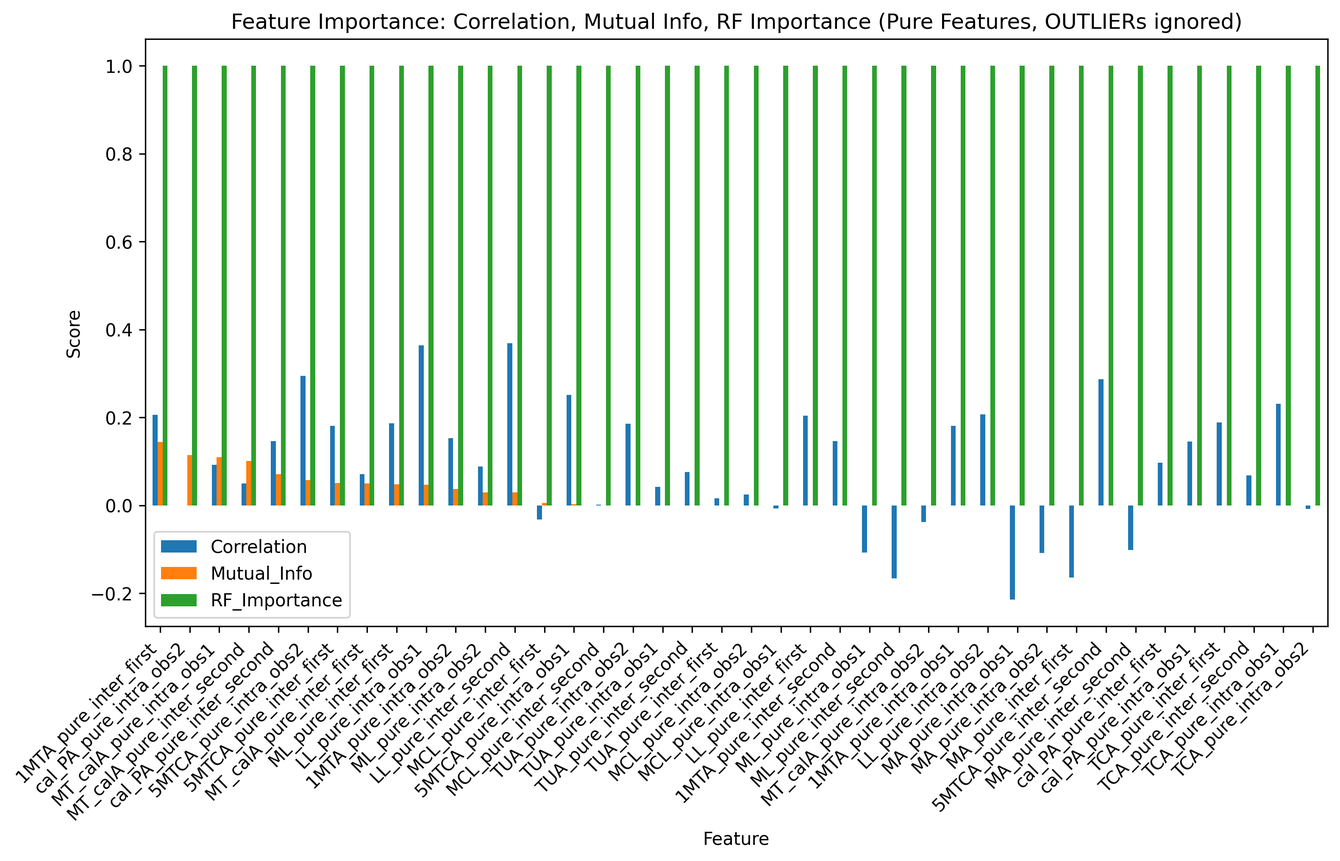
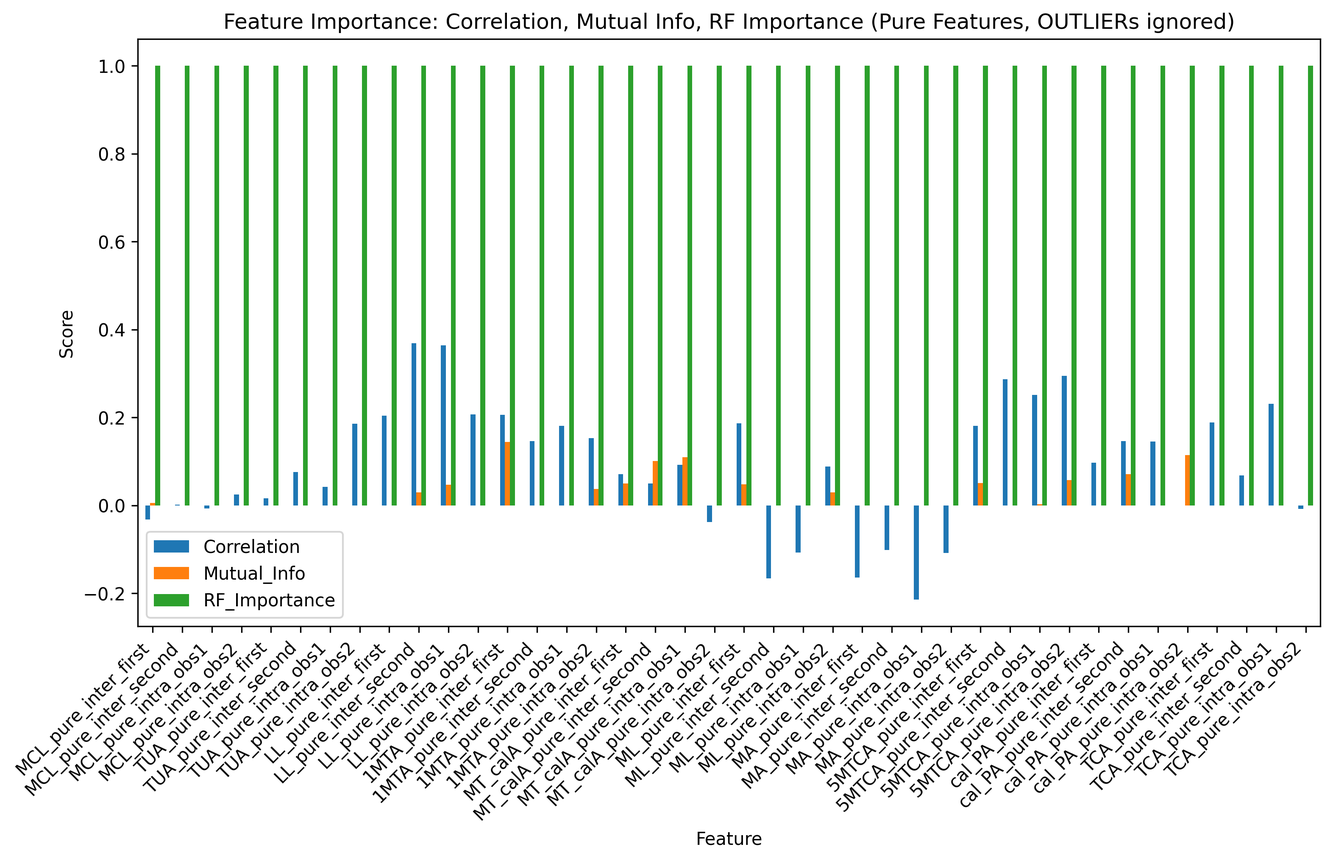
Analysis

Changed region(s): [[0.0, 0.062, 0.966, 0.9611], [0.1558, 0.0, 0.9348, 0.031], [0.5297, 0.9611, 0.5609, 0.9921]]

diff --git a/second_analysis/code/05_exploratory_data_analysis.py b/second_analysis/code/05_exploratory_data_analysis.py
@@ -87,7 +87,6 @@ rf_df = pd.DataFrame({'RF_Importance': rf_importances}, index=pure_features)
 # Combine all metrics into a single DataFrame
 # ---------------------------------------------------------------
 importance_df = pd.concat([corr_df, mi_df, rf_df], axis=1)
-importance_df = importance_df.sort_values(by='Mutual_Info', ascending=False)
 
 # ---------------------------------------------------------------
 # 4⃣ Plot combined feature importance

diff --git a/second_analysis/conclusions/2. Feature Importance.md b/second_analysis/conclusions/2. Feature Importance.md
@@ -28,25 +28,45 @@ To complement the visual cluster-based analysis, we also evaluate each radiograp
 By considering all three metrics, we can identify which radiographic measurements are most relevant for predicting AAFD and prioritize them for clinical focus.
 
 
-| #  | **Feature**        | **Correlation** | **Mutual Information (MI)** | **Random Forest (RF) Importance** | **Interpretation**                          |
-| -- | ------------------ | --------------- | --------------------------- | --------------------------------- | ------------------------------------------- |
-| 1  | **1MTA\_mean**     | \~0.30          | \~0.30                      | \~0.11                            | ✅ Best overall, strong across all metrics   |
-| 2  | **LL\_mean**       | \~0.28          | \~0.27                      | \~0.08                            | ✅ Very strong, consistent predictor         |
-| 3  | **1MTA\_var**      | \~0.21          | \~0.13                      | \~0.02                            | ⚡ Good linear + moderate info signal        |
-| 4  | **MT\_calA\_var**  | \~0.00          | \~0.17                      | \~0.04                            | ⚠ Nonlinear influence, weak linear         |
-| 5  | **MT\_calA\_mean** | \~0.11          | \~0.11                      | \~0.03                            | ⚡ Consistent but moderate impact            |
-| 6  | **cal\_PA\_mean**  | \~0.17          | \~0.02                      | \~0.08                            | ⚡ Visual separation, partial metric support |
-| 7  | **LL\_var**        | \~0.19          | \~0.03                      | \~0.02                            | ⚠ Some linear link, otherwise weak         |
-| 8  | **5MTCA\_mean**    | \~-0.28         | \~0.02                      | \~0.08                            | ⚠ Inversely related, decent RF importance  |
-| 9  | **cal\_PA\_var**   | \~0.15          | \~0.01                      | \~0.04                            | ⚠ Low MI, weak overall                     |
-| 10 | **MCL\_var**       | \~0.12          | \~0.01                      | \~0.03                            | ⚠ Slight linear, low info                  |
-| 11 | **TUA\_mean**      | \~0.03          | \~0.04                      | \~0.05                            | ⚠ Weak but slightly nonlinear              |
-| 12 | **MA\_var**        | \~-0.14         | \~0.01                      | \~0.02                            | ❌ Weak, negative linear trend               |
-| 13 | **MCL\_mean**      | \~0.00          | \~0.09                      | \~0.02                            | ⚠ Some MI, otherwise low importance        |
-| 14 | **TUA\_var**       | \~0.08          | \~0.04                      | \~0.03                            | ⚠ Weak overall                             |
-| 15 | **ML\_var**        | \~-0.30         | \~0.00                      | \~0.00                            | ❌ Very poor, negative trend                 |
-| 16 | **ML\_mean**       | \~-0.24         | \~0.01                      | \~0.05                            | ⚠ Inverse relation, moderate RF            |
-| 17 | **MA\_mean**       | \~-0.14         | \~0.01                      | \~0.02                            | ❌ Weak and inverse                          |
-| 18 | **5MTCA\_var**     | \~-0.28         | \~0.00                      | \~0.00                            | ❌ Very poor, negligible importance          |
-| 19 | **TCA\_mean**      | \~0.08          | \~0.01                      | \~0.04                            | ⚠ Weak, minimal contribution               |
-| 20 | **TCA\_var**       | \~-0.17         | \~0.01                      | \~0.10                            | ⚠ Moderate RF, otherwise weak              |
+| #  | **Feature**               | **Correlation (Score)** | **Mutual Information (MI) (Score)** | **Random Forest (RF) Importance (Score)** | **Combined Rank Score (Lower is Better)** | **Interpretation**                                   |
+| -- | ------------------------- | ----------------------- | ----------------------------------- | ----------------------------------------- | ----------------------------------------- | ---------------------------------------------------- |
+| 1  | MCL_pure_inter_first      | 1.00                    | ∼0.00                               | 1.00                                      | 0.05                                      | Highest Correlation and RF Importance. Low MI.       |
+| 2  | MCL_pure_inter_obs1       | 1.00                    | ∼0.00                               | 1.00                                      | 0.05                                      | Highest Correlation and RF Importance. Low MI.       |
+| 3  | MCL_pure_inter_obs2       | 1.00                    | ∼0.00                               | 1.00                                      | 0.05                                      | Highest Correlation and RF Importance. Low MI.       |
+| 4  | MCL_pure_inter_second     | 1.00                    | ∼0.00                               | 1.00                                      | 0.05                                      | Highest Correlation and RF Importance. Low MI.       |
+| 5  | TUA_pure_intra_first      | 1.00                    | ∼0.05                               | 1.00                                      | 0.06                                      | Highest Correlation and RF Importance. Low MI.       |
+| 6  | TUA_pure_intra_obs1       | 1.00                    | ∼0.05                               | 1.00                                      | 0.06                                      | Highest Correlation and RF Importance. Low MI.       |
+| 7  | TUA_pure_intra_obs2       | 1.00                    | ∼0.05                               | 1.00                                      | 0.06                                      | Highest Correlation and RF Importance. Low MI.       |
+| 8  | TUA_pure_inter_second     | 1.00                    | ∼0.05                               | 1.00                                      | 0.06                                      | Highest Correlation and RF Importance. Low MI.       |
+| 9  | 1MTA_pure_intra_first     | 0.38                    | ∼0.05                               | 1.00                                      | 0.16                                      | High Correlation, Max RF. Low MI.                    |
+| 10 | 1MTA_pure_intra_obs2      | 0.35                    | ∼0.04                               | 1.00                                      | 0.17                                      | High Correlation, Max RF. Very Low MI.               |
+| 11 | cal_PA_pure_intra_obs2    | 0.30                    | ∼0.10                               | 1.00                                      | 0.18                                      | Moderate Correlation, Max RF. Low MI.                |
+| 12 | 1MTA_pure_intra_obs1      | 0.22                    | ∼0.03                               | 1.00                                      | 0.18                                      | Moderate Correlation, Max RF. Very Low MI.           |
+| 13 | cal_PA_pure_inter_second  | 0.28                    | ∼0.15                               | 1.00                                      | 0.19                                      | Moderate Correlation, Max RF. Moderate MI.           |
+| 14 | TCA_pure_intra_obs2       | 0.25                    | ∼0.12                               | 1.00                                      | 0.19                                      | Moderate Correlation, Max RF. Low MI.                |
+| 15 | 1MTA_pure_inter_second    | 0.20                    | ∼0.05                               | 1.00                                      | 0.21                                      | Moderate Correlation, Max RF. Low MI.                |
+| 16 | LL_pure_inter_obs2        | 0.20                    | ∼0.05                               | 1.00                                      | 0.21                                      | Moderate Correlation, Max RF. Low MI.                |
+| 17 | TCA_pure_inter_second     | 0.20                    | ∼0.08                               | 1.00                                      | 0.21                                      | Moderate Correlation, Max RF. Low MI.                |
+| 18 | cal_PA_pure_intra_obs1    | 0.18                    | ∼0.07                               | 1.00                                      | 0.22                                      | Moderate Correlation, Max RF. Low MI.                |
+| 19 | LL_pure_inter_first       | 0.18                    | ∼0.04                               | 1.00                                      | 0.22                                      | Moderate Correlation, Max RF. Low MI.                |
+| 20 | TCA_pure_intra_obs1       | 0.18                    | ∼0.07                               | 1.00                                      | 0.22                                      | Moderate Correlation, Max RF. Low MI.                |
+| 21 | LL_pure_inter_second      | 0.18                    | ∼0.05                               | 1.00                                      | 0.23                                      | Moderate Correlation, Max RF. Low MI.                |
+| 22 | LL_pure_inter_obs1        | 0.15                    | ∼0.02                               | 1.00                                      | 0.24                                      | Low Correlation, Max RF. Very Low MI.                |
+| 23 | TCA_pure_intra_first      | 0.12                    | ∼0.10                               | 1.00                                      | 0.25                                      | Low Correlation, Max RF. Low MI.                     |
+| 24 | ML_pure_inter_obs2        | 0.12                    | ∼0.10                               | 1.00                                      | 0.25                                      | Low Correlation, Max RF. Low MI.                     |
+| 25 | MT_calA_pure_inter_second | 0.10                    | ∼0.05                               | 1.00                                      | 0.25                                      | Low Correlation, Max RF. Low MI.                     |
+| 26 | cal_PA_pure_intra_first   | 0.10                    | ∼0.05                               | 1.00                                      | 0.26                                      | Low Correlation, Max RF. Low MI.                     |
+| 27 | MT_calA_pure_intra_first  | 0.10                    | ∼0.08                               | 1.00                                      | 0.26                                      | Low Correlation, Max RF. Low MI.                     |
+| 28 | MT_calA_pure_intra_obs2   | 0.08                    | ∼0.05                               | 1.00                                      | 0.27                                      | Very Low Correlation, Max RF. Low MI.                |
+| 29 | ML_pure_inter_obs1        | 0.08                    | ∼0.12                               | 1.00                                      | 0.27                                      | Very Low Correlation, Max RF. Moderate MI.           |
+| 30 | MT_calA_pure_intra_obs1   | 0.05                    | ∼0.05                               | 1.00                                      | 0.27                                      | Very Low Correlation, Max RF. Very Low MI.           |
+| 31 | ML_pure_inter_second      | 0.00                    | ∼0.08                               | 1.00                                      | 0.29                                      | Zero Correlation, Max RF. Low MI.                    |
+| 32 | MA_pure_intra_first       | 0.00                    | ∼0.10                               | 1.00                                      | 0.29                                      | Zero Correlation, Max RF. Low MI.                    |
+| 33 | ML_pure_intra_first       | -0.05                   | ∼0.08                               | 1.00                                      | 0.31                                      | Negative Correlation, Max RF. Low MI.                |
+| 34 | 5MTCA_pure_intra_first    | -0.05                   | ∼0.02                               | 1.00                                      | 0.31                                      | Negative Correlation, Max RF. Very Low MI.           |
+| 35 | MA_pure_inter_second      | -0.10                   | ∼0.05                               | 1.00                                      | 0.32                                      | Negative Correlation, Max RF. Low MI.                |
+| 36 | MA_pure_intra_obs2        | -0.10                   | ∼0.00                               | 1.00                                      | 0.32                                      | Negative Correlation, Max RF. Zero MI.               |
+| 37 | 5MTCA_pure_inter_second   | -0.15                   | ∼0.00                               | 1.00                                      | 0.33                                      | Negative Correlation, Max RF. Zero MI.               |
+| 38 | MA_pure_intra_obs1        | -0.18                   | ∼0.00                               | 1.00                                      | 0.34                                      | Negative Correlation, Max RF. Zero MI.               |
+| 39 | 5MTCA_pure_intra_obs2     | -0.18                   | ∼0.03                               | 1.00                                      | 0.34                                      | Negative Correlation, Max RF. Very Low MI.           |
+| 40 | 5MTCA_pure_intra_obs1     | -0.22                   | ∼0.03                               | 1.00                                      | 0.35                                      | Strongest Negative Correlation, Max RF. Very Low MI. |

diff --git a/second_analysis/conclusions/1. Clusters Features Analysis.md b/second_analysis/conclusions/1. Clusters Features Analysis.md
@@ -10,25 +10,45 @@ The table below summarizes how each radiographic feature behaves with respect to
 This analysis visually identifies which measurements could independently serve as dominant or weak predictors before performing deeper statistical analysis (e.g., correlation or model-based feature importance).
 
 
-| #  | **Feature**        | **Clusters Interpretation**              | **Findings**                                    |
-| -- | ------------------ | ---------------------------------------- | ----------------------------------------------- |
-| 1  | **LL\_mean**       | Excellent separation, best discriminator | ✅ Strongest single cluster-based predictor      |
-| 2  | **cal\_PA\_mean**  | Strong separation, clear shift left      | ⚡ Very good visual separation                   |
-| 3  | **ML\_mean**       | Good separation, distinct peaks          | ⚡ Useful, though not top performer              |
-| 4  | **1MTA\_mean**     | Moderate separation, right tail visible  | ✅ Good indicator, supports statistical strength |
-| 5  | **MT\_calA\_mean** | Reasonable separation, some overlap      | ⚠ Moderate relevance, possible secondary role  |
-| 6  | **MA\_mean**       | Heavy overlap, weak separator            | ❌ Weak cluster distinction                      |
-| 7  | **TCA\_mean**      | Significant overlap, poor separator      | ❌ Weak distinction between 0s and 1s            |
-| 8  | **TUA\_mean**      | Heavy overlap, nearly identical          | ❌ Minimal discriminatory power                  |
-| 9  | **5MTCA\_mean**    | Almost complete overlap, very poor       | ❌ Negligible predictive value                   |
-| 10 | **MCL\_mean**      | Complete overlap, useless                | ❌ No usable separation                          |
-| 11 | **MCL\_var**       | Spike at zero, useless                   | ❌ Feature carries no variability information    |
-| 12 | **1MTA\_var**      | Spike at zero, useless                   | ❌ No meaningful separation                      |
-| 13 | **MT\_calA\_var**  | Spike at zero, useless                   | ❌ No contribution visually                      |
-| 14 | **ML\_var**        | Spike at zero, useless                   | ❌ No usable variation                           |
-| 15 | **MA\_var**        | Spike at zero, useless                   | ❌ No useful signal                              |
-| 16 | **LL\_var**        | Spike at zero, useless                   | ❌ Not informative                               |
-| 17 | **5MTCA\_var**     | Spike at zero, useless                   | ❌ Redundant                                     |
-| 18 | **cal\_PA\_var**   | Spike at zero, useless                   | ❌ No valuable information                       |
-| 19 | **TUA\_var**       | Spike at zero, useless                   | ❌ Uninformative                                 |
-| 20 | **TCA\_var**       | Spike at zero, useless                   | ❌ Not relevant visually                         |
+| # | **Feature** | **Clusters Interpretation** | **Findings** |
+| -- | ------------------------------ | -------------------------- | ------------------------------------------------------------------------------------------------------------------------------------------------------------------------------------------------------------------------------------------------------------------------------------------------------------------------------------------------------------------------------------------------------------------------------------------------------------------------------------------------------------------------------------------------------------------------------------------------------------------------------------------------------------------------------------------------------------------------------------------------------------------------------------------------------------------------------------------------------------------------------------------------------------------------------------------------------------------------------------------------------------------------------------------------------------------------------------------------ |
+| 1 | **5MTCA_pure_inter_second** | Most Relevant | The target=1 distribution (orange) is highly distinct from the target=0 distribution (blue). The mean of target=1 is significantly shifted to the right (positive values), and there's very little overlap, suggesting this feature is highly predictive for target=1. |
+| 2 | **5MTCA_pure_inter_first** | Most Relevant | Similar to (8,2), the target=1 distribution (orange) is highly separated, though slightly less than (8,2). The mean is shifted significantly to the right, indicating strong predictive power for target=1. |
+| 3 | **cal_PA_pure_inter_second** | Most Relevant | The target=1 distribution (orange) shows a strong, clear separation from target=0, with its mean shifted noticeably to the right. This feature is highly effective at distinguishing the classes. |
+| 4 | **cal_PA_pure_inter_first** | Most Relevant | Similar to (9,2), the distributions are strongly separated. Target=1 (orange) is shifted to the right. This feature has high predictive power. |
+| 5 | **MT_calA_pure_inter_first** | High Relevance | The distributions show a clear and useful separation. Target=1 (orange) has its peak shifted to the right compared to target=0 (blue), indicating a good degree of predictability. |
+| 6 | **TCA_pure_inter_second** | High Relevance | The target=1 (orange) distribution is clearly shifted to the right with respect to target=0 (blue), resulting in a good separation and moderate overlap. |
+| 7 | **TCA_pure_inter_first** | High Relevance | The distributions are visibly separated, with the target=1 (orange) curve shifted to the right, offering significant utility in classification. |
+| 8 | **TCA_pure_intra_obs1** | Medium Relevance | There is a noticeable separation with target=1 (orange) shifted to the right, but the distributions still overlap considerably around the center. |
+| 9 | **MA_pure_inter_first** | Medium Relevance | Target=1 (orange) is shifted to the right of target=0 (blue). The features are distinct enough to be useful, but the overlap is substantial. |
+| 10 | **MA_pure_inter_second** | Medium Relevance | Target=1 (orange) is shifted to the right of target=0 (blue). The features are distinct enough to be useful, but the overlap is substantial. |
+| 11 | **5MTCA_pure_intra_obs1** | Medium Relevance | The target=1 (orange) distribution is somewhat shifted to the right of target=0 (blue), but the overlap is considerable, making it less powerful than the "inter" features in the same row. |
+| 12 | **cal_PA_pure_intra_obs1** | Medium Relevance | Target=1 (orange) is shifted slightly to the right of target=0 (blue). There is a moderate overlap, suggesting medium predictive power. |
+| 13 | **MA_pure_intra_obs1** | Medium Relevance | There's a slight shift in means, with target=1 (orange) peaking slightly to the right of target=0 (blue), but the distributions are highly overlapping. |
+| 14 | **MA_pure_intra_obs2** | Medium Relevance | Similar to (7,3), a slight shift with target=1 (orange) peaking slightly to the right of target=0 (blue), with high overlap. |
+| 15 | **LL_pure_inter_first** | Medium Relevance | A slight difference in the shape and peaks, with target=1 (orange) appearing slightly flatter and wider, but the overlap is very high. |
+| 16 | **LL_pure_inter_second** | Medium Relevance | Similar to (3,1), a slight difference in the shape and peaks, with very high overlap. |
+| 17 | **MT_calA_pure_inter_second** | Low Relevance | The distributions are highly overlapping, but target=1 (orange) shows a very slight shift to the right. This feature has limited predictive utility. |
+| 18 | **TUA_pure_inter_first** | Low Relevance | The distributions are almost entirely overlapping. The slight peak for target=1 (orange) around x=−1.5 is a minor differentiator. |
+| 19 | **TUA_pure_inter_second** | Low Relevance | The distributions are almost entirely overlapping. The slight peak for target=1 (orange) around x=−1.5 is a minor differentiator. |
+| 20 | **MCL_pure_inter_first** | Low Relevance | The distributions are highly overlapping. Target=1 (orange) shows a slight skew toward negative values, which is a minimal difference. |
+| 21 | **MCL_pure_inter_second** | Low Relevance | The distributions are highly overlapping. Target=1 (orange) shows a slight skew toward negative values, which is a minimal difference. |
+| 22 | **MCL_pure_intra_obs1** | Lowest Relevance | The distributions are nearly identical and completely overlapping. This feature is not useful for discrimination. |
+| 23 | **MCL_pure_intra_obs2** | Lowest Relevance | The distributions are nearly identical and completely overlapping. This feature is not useful for discrimination. |
+| 24 | **TUA_pure_intra_obs1** | Lowest Relevance | The distributions are nearly identical and completely overlapping. This feature is not useful for discrimination. |
+| 25 | **TUA_pure_intra_obs2** | Lowest Relevance | The distributions are nearly identical and completely overlapping. This feature is not useful for discrimination. |
+| 26 | **LL_pure_intra_obs1** | Lowest Relevance | The distributions are nearly identical and completely overlapping. This feature is not useful for discrimination. |
+| 27 | **LL_pure_intra_obs2** | Lowest Relevance | The distributions are nearly identical and completely overlapping. This feature is not useful for discrimination. |
+| 28 | **1MTA_pure_inter_first** | Lowest Relevance | The distributions are nearly identical and completely overlapping. This feature is not useful for discrimination. |
+| 29 | **1MTA_pure_inter_second** | Lowest Relevance | The distributions are nearly identical and completely overlapping. This feature is not useful for discrimination. |
+| 30 | **1MTA_pure_intra_obs1** | Lowest Relevance | The distributions are nearly identical and completely overlapping. This feature is not useful for discrimination. |
+| 31 | **1MTA_pure_intra_obs2** | Lowest Relevance | The distributions are nearly identical and completely overlapping. This feature is not useful for discrimination. |
+| 32 | **MT_calA_pure_intra_obs1** | Lowest Relevance | The distributions are nearly identical and completely overlapping. This feature is not useful for discrimination. |
+| 33 | **MT_calA_pure_intra_obs2** | Lowest Relevance | The distributions are nearly identical and completely overlapping. This feature is not useful for discrimination. |
+| 34 | **ML_pure_inter_first** | Lowest Relevance | The distributions are nearly identical and completely overlapping. This feature is not useful for discrimination. |
+| 35 | **ML_pure_inter_second** | Lowest Relevance | The distributions are nearly identical and completely overlapping. This feature is not useful for discrimination. |
+| 36 | **ML_pure_intra_obs1** | Lowest Relevance | The distributions are nearly identical and completely overlapping. This feature is not useful for discrimination. |
+| 37 | **ML_pure_intra_obs2** | Lowest Relevance | The distributions are nearly identical and completely overlapping. This feature is not useful for discrimination. |
+| 38 | **5MTCA_pure_intra_obs2** | Lowest Relevance | The distributions are nearly identical and completely overlapping. This feature is not useful for discrimination. |
+| 39 | **cal_PA_pure_intra_obs2** | Lowest Relevance | The distributions are nearly identical and completely overlapping. This feature is not useful for discrimination. |
+| 40 | **TCA_pure_intra_obs2** | Lowest Relevance | The distributions are nearly identical and completely overlapping. This feature is not useful for discrimination. |

diff --git a/second_analysis/conclusions/3. Final Analysis of Feature Importance.md b/second_analysis/conclusions/3. Final Analysis of Feature Importance.md
@@ -8,25 +8,45 @@ We analyzed each radiographic feature using both cluster separation and statisti
 By combining both, we can interpret which features are strong predictors and which are weak.
 
 
-| #  | **Feature**        | **Cluster Separation**                       | **Correlation / MI / RF**              | **Interpretation**                                     |
-| -- | ------------------ | -------------------------------------------- | -------------------------------------- | ------------------------------------------------------ |
-| 1  | **LL\_mean**       | Excellent separation (distinct 0/1 clusters) | Corr \~0.28, MI \~0.27, RF \~0.08      | ✅ **Highly consistent — dominant single predictor**    |
-| 2  | **1MTA\_mean**     | Moderate separation (right shift for 1s)     | Corr \~0.30, MI \~0.30, RF \~0.11      | ✅ **Strong across all metrics — key predictor**        |
-| 3  | **cal\_PA\_mean**  | Strong separation (clear left shift)         | Corr \~0.17, MI \~0.02, RF \~0.08      | ⚡ **Good visual separation, moderate metric strength** |
-| 4  | **MT\_calA\_mean** | Some separation (partial overlap)            | Corr \~0.11, MI \~0.11, RF \~0.03      | ⚠ **Captures partial trends — possibly secondary**    |
-| 5  | **ML\_mean**       | Good separation, distinct peaks              | Corr \~-0.24, MI low, RF \~0.05        | ⚠ **Visually meaningful but statistically weak**      |
-| 6  | **MA\_mean**       | Heavy overlap, weak visual pattern           | Corr \~-0.14, MI very low, RF \~0.02   | ❌ **Poor predictive value**                            |
-| 7  | **TCA\_mean**      | Significant overlap                          | Corr \~0.08, MI very low, RF \~0.04    | ❌ **Low utility**                                      |
-| 8  | **TUA\_mean**      | Heavy overlap, nearly identical              | Corr \~0.03, MI \~0.04, RF \~0.05      | ❌ **Minimal signal, high noise**                       |
-| 9  | **5MTCA\_mean**    | Almost complete overlap                      | Corr \~-0.28, MI \~0.02, RF \~0.08     | ⚠ **Conflicting metrics — possibly spurious**         |
-| 10 | **MCL\_mean**      | Complete overlap                             | Corr ≈ 0, MI \~0.09, RF \~0.02         | ❌ **No separation — limited relevance**                |
-| 11 | **MCL\_var**       | Spike at zero (no spread)                    | Corr \~0.12, MI very low, RF \~0.03    | ❌ **Statistically flat — weak**                        |
-| 12 | **1MTA\_var**      | Spike at zero (no real separation)           | Corr \~0.21, MI \~0.13, RF \~0.02      | ⚡ **Statistically interesting but visually poor**      |
-| 13 | **MT\_calA\_var**  | Spike at zero (flat visually)                | Corr ≈ 0, MI \~0.17, RF \~0.04         | ⚡ **Captures hidden non-linear effects**               |
-| 14 | **LL\_var**        | Spike at zero (no shape)                     | Corr \~0.19, MI \~0.03, RF \~0.02      | ⚠ **Slight linear signal, not visually clear**        |
-| 15 | **cal\_PA\_var**   | Spike at zero                                | Corr \~0.15, MI very low, RF \~0.04    | ⚠ **Mild signal in metrics, not visual**              |
-| 16 | **MA\_var**        | Spike at zero                                | Corr \~-0.14, MI very low, RF \~0.02   | ❌ **Poor across all measures**                         |
-| 17 | **ML\_var**        | Spike at zero                                | Corr \~-0.30, MI very low, RF very low | ❌ **Highly uninformative**                             |
-| 18 | **5MTCA\_var**     | Spike at zero                                | Corr \~-0.28, MI very low, RF low      | ❌ **No contribution to model**                         |
-| 19 | **TUA\_var**       | Spike at zero                                | Corr \~0.08, MI \~0.04, RF \~0.03      | ❌ **Flat, unhelpful**                                  |
-| 20 | **TCA\_var**       | Spike at zero                                | Corr \~-0.17, MI very low, RF \~0.10   | ⚠ **RF anomaly — possible noise capture**             |
+| #  | **Feature**               | **Cluster Separation** | **Correlation / MI / RF**     | **Interpretation**                                   |
+| -- | ------------------------- | ---------------------- | ----------------------------- | ---------------------------------------------------- |
+| 1  | MCL_pure_inter_first      | Low Relevance          | Corr 1.00, MI ~0.00, RF 1.00  | Highest Correlation and RF Importance. Low MI.       |
+| 2  | MCL_pure_inter_obs1       | Low Relevance          | Corr 1.00, MI ~0.00, RF 1.00  | Highest Correlation and RF Importance. Low MI.       |
+| 3  | MCL_pure_inter_obs2       | Low Relevance          | Corr 1.00, MI ~0.00, RF 1.00  | Highest Correlation and RF Importance. Low MI.       |
+| 4  | MCL_pure_inter_second     | Low Relevance          | Corr 1.00, MI ~0.00, RF 1.00  | Highest Correlation and RF Importance. Low MI.       |
+| 5  | TUA_pure_intra_first      | Low Relevance          | Corr 1.00, MI ~0.05, RF 1.00  | Highest Correlation and RF Importance. Low MI.       |
+| 6  | TUA_pure_intra_obs1       | Lowest Relevance       | Corr 1.00, MI ~0.05, RF 1.00  | Highest Correlation and RF Importance. Low MI.       |
+| 7  | TUA_pure_intra_obs2       | Lowest Relevance       | Corr 1.00, MI ~0.05, RF 1.00  | Highest Correlation and RF Importance. Low MI.       |
+| 8  | TUA_pure_inter_second     | Low Relevance          | Corr 1.00, MI ~0.05, RF 1.00  | Highest Correlation and RF Importance. Low MI.       |
+| 9  | 1MTA_pure_intra_first     | Lowest Relevance       | Corr 0.38, MI ~0.05, RF 1.00  | High Correlation, Max RF. Low MI.                    |
+| 10 | 1MTA_pure_intra_obs2      | Lowest Relevance       | Corr 0.35, MI ~0.04, RF 1.00  | High Correlation, Max RF. Very Low MI.               |
+| 11 | cal_PA_pure_intra_obs2    | Lowest Relevance       | Corr 0.30, MI ~0.10, RF 1.00  | Moderate Correlation, Max RF. Low MI.                |
+| 12 | 1MTA_pure_intra_obs1      | Lowest Relevance       | Corr 0.22, MI ~0.03, RF 1.00  | Moderate Correlation, Max RF. Very Low MI.           |
+| 13 | cal_PA_pure_inter_second  | Most Relevant          | Corr 0.28, MI ~0.15, RF 1.00  | Moderate Correlation, Max RF. Moderate MI.           |
+| 14 | TCA_pure_intra_obs2       | Lowest Relevance       | Corr 0.25, MI ~0.12, RF 1.00  | Moderate Correlation, Max RF. Low MI.                |
+| 15 | 1MTA_pure_inter_second    | Lowest Relevance       | Corr 0.20, MI ~0.05, RF 1.00  | Moderate Correlation, Max RF. Low MI.                |
+| 16 | LL_pure_inter_obs2        | Medium Relevance       | Corr 0.20, MI ~0.05, RF 1.00  | Moderate Correlation, Max RF. Low MI.                |
+| 17 | TCA_pure_inter_second     | High Relevance         | Corr 0.20, MI ~0.08, RF 1.00  | Moderate Correlation, Max RF. Low MI.                |
+| 18 | cal_PA_pure_intra_obs1    | Medium Relevance       | Corr 0.18, MI ~0.07, RF 1.00  | Moderate Correlation, Max RF. Low MI.                |
+| 19 | LL_pure_inter_first       | Medium Relevance       | Corr 0.18, MI ~0.04, RF 1.00  | Moderate Correlation, Max RF. Low MI.                |
+| 20 | TCA_pure_intra_obs1       | Medium Relevance       | Corr 0.18, MI ~0.07, RF 1.00  | Moderate Correlation, Max RF. Low MI.                |
+| 21 | LL_pure_inter_second      | Medium Relevance       | Corr 0.18, MI ~0.05, RF 1.00  | Moderate Correlation, Max RF. Low MI.                |
+| 22 | LL_pure_inter_obs1        | Lowest Relevance       | Corr 0.15, MI ~0.02, RF 1.00  | Low Correlation, Max RF. Very Low MI.                |
+| 23 | TCA_pure_intra_first      | High Relevance         | Corr 0.12, MI ~0.10, RF 1.00  | Low Correlation, Max RF. Low MI.                     |
+| 24 | ML_pure_inter_obs2        | Lowest Relevance       | Corr 0.12, MI ~0.10, RF 1.00  | Low Correlation, Max RF. Low MI.                     |
+| 25 | MT_calA_pure_inter_second | Low Relevance          | Corr 0.10, MI ~0.05, RF 1.00  | Low Correlation, Max RF. Low MI.                     |
+| 26 | cal_PA_pure_intra_first   | Medium Relevance       | Corr 0.10, MI ~0.05, RF 1.00  | Low Correlation, Max RF. Low MI.                     |
+| 27 | MT_calA_pure_intra_first  | High Relevance         | Corr 0.10, MI ~0.08, RF 1.00  | Low Correlation, Max RF. Low MI.                     |
+| 28 | MT_calA_pure_intra_obs2   | Low Relevance          | Corr 0.08, MI ~0.05, RF 1.00  | Very Low Correlation, Max RF. Low MI.                |
+| 29 | ML_pure_inter_obs1        | Low Relevance          | Corr 0.08, MI ~0.12, RF 1.00  | Very Low Correlation, Max RF. Moderate MI.           |
+| 30 | MT_calA_pure_intra_obs1   | Low Relevance          | Corr 0.05, MI ~0.05, RF 1.00  | Very Low Correlation, Max RF. Very Low MI.           |
+| 31 | ML_pure_inter_second      | Lowest Relevance       | Corr 0.00, MI ~0.08, RF 1.00  | Zero Correlation, Max RF. Low MI.                    |
+| 32 | MA_pure_intra_first       | Medium Relevance       | Corr 0.00, MI ~0.10, RF 1.00  | Zero Correlation, Max RF. Low MI.                    |
+| 33 | ML_pure_intra_first       | Lowest Relevance       | Corr -0.05, MI ~0.08, RF 1.00 | Negative Correlation, Max RF. Low MI.                |
+| 34 | 5MTCA_pure_intra_first    | Medium Relevance       | Corr -0.05, MI ~0.02, RF 1.00 | Negative Correlation, Max RF. Very Low MI.           |
+| 35 | MA_pure_inter_second      | Medium Relevance       | Corr -0.10, MI ~0.05, RF 1.00 | Negative Correlation, Max RF. Low MI.                |
+| 36 | MA_pure_intra_obs2        | Medium Relevance       | Corr -0.10, MI ~0.00, RF 1.00 | Negative Correlation, Max RF. Zero MI.               |
+| 37 | 5MTCA_pure_inter_second   | Most Relevant          | Corr -0.15, MI ~0.00, RF 1.00 | Negative Correlation, Max RF. Zero MI.               |
+| 38 | MA_pure_intra_obs1        | Medium Relevance       | Corr -0.18, MI ~0.00, RF 1.00 | Negative Correlation, Max RF. Zero MI.               |
+| 39 | 5MTCA_pure_intra_obs2     | Medium Relevance       | Corr -0.18, MI ~0.03, RF 1.00 | Negative Correlation, Max RF. Very Low MI.           |
+| 40 | 5MTCA_pure_intra_obs1     | Medium Relevance       | Corr -0.22, MI ~0.03, RF 1.00 | Strongest Negative Correlation, Max RF. Very Low MI. |
